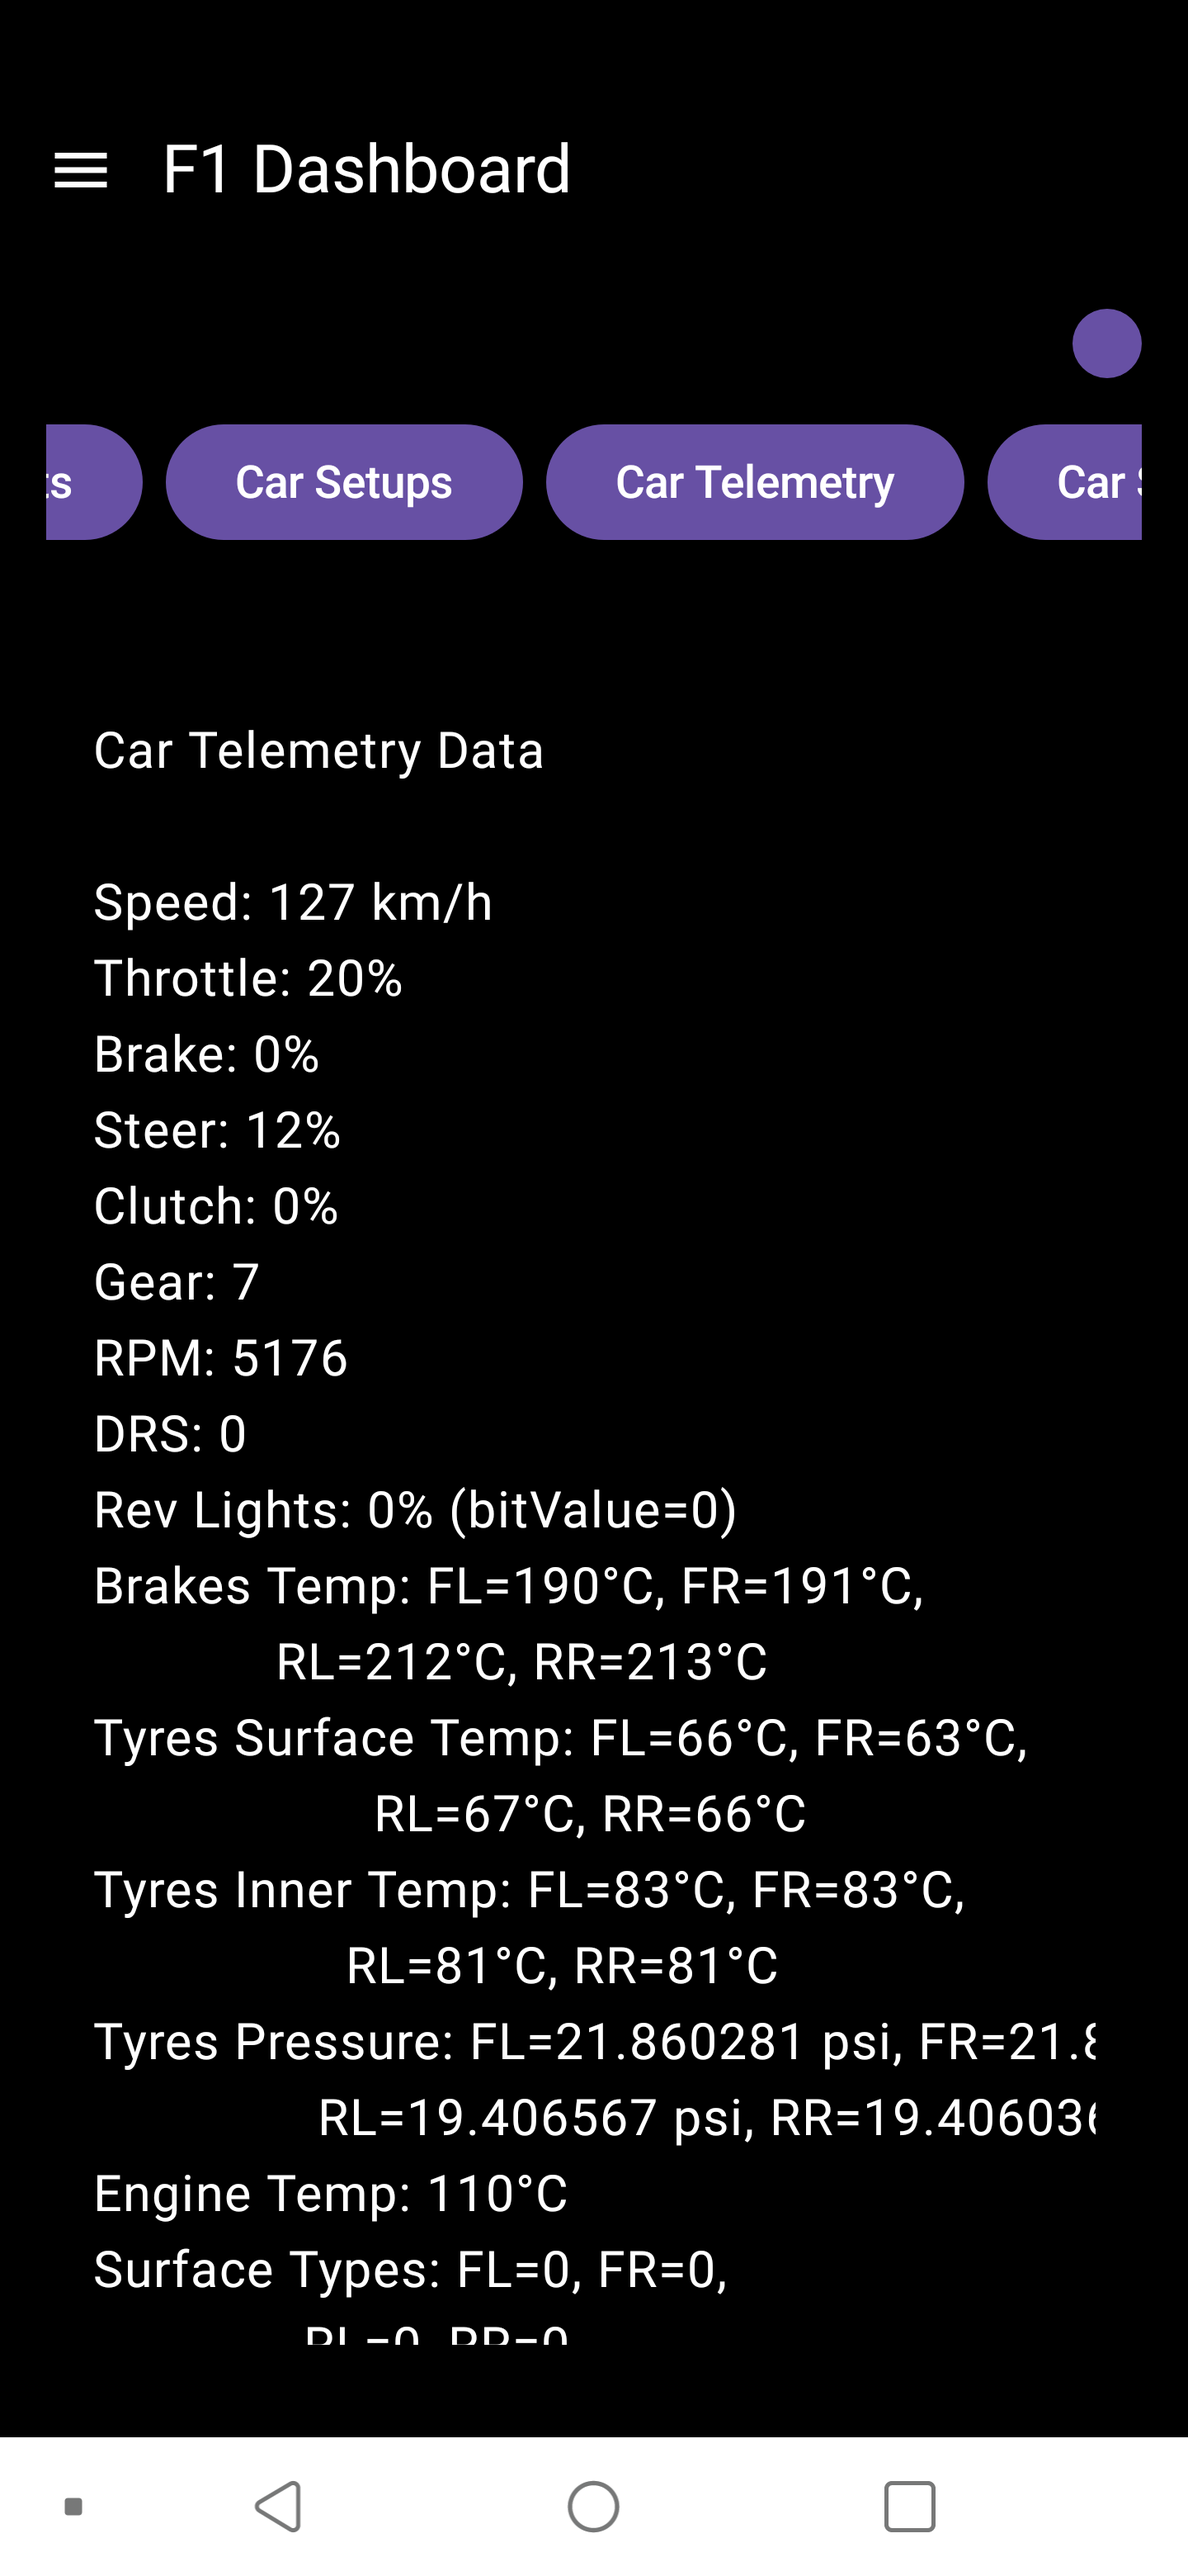
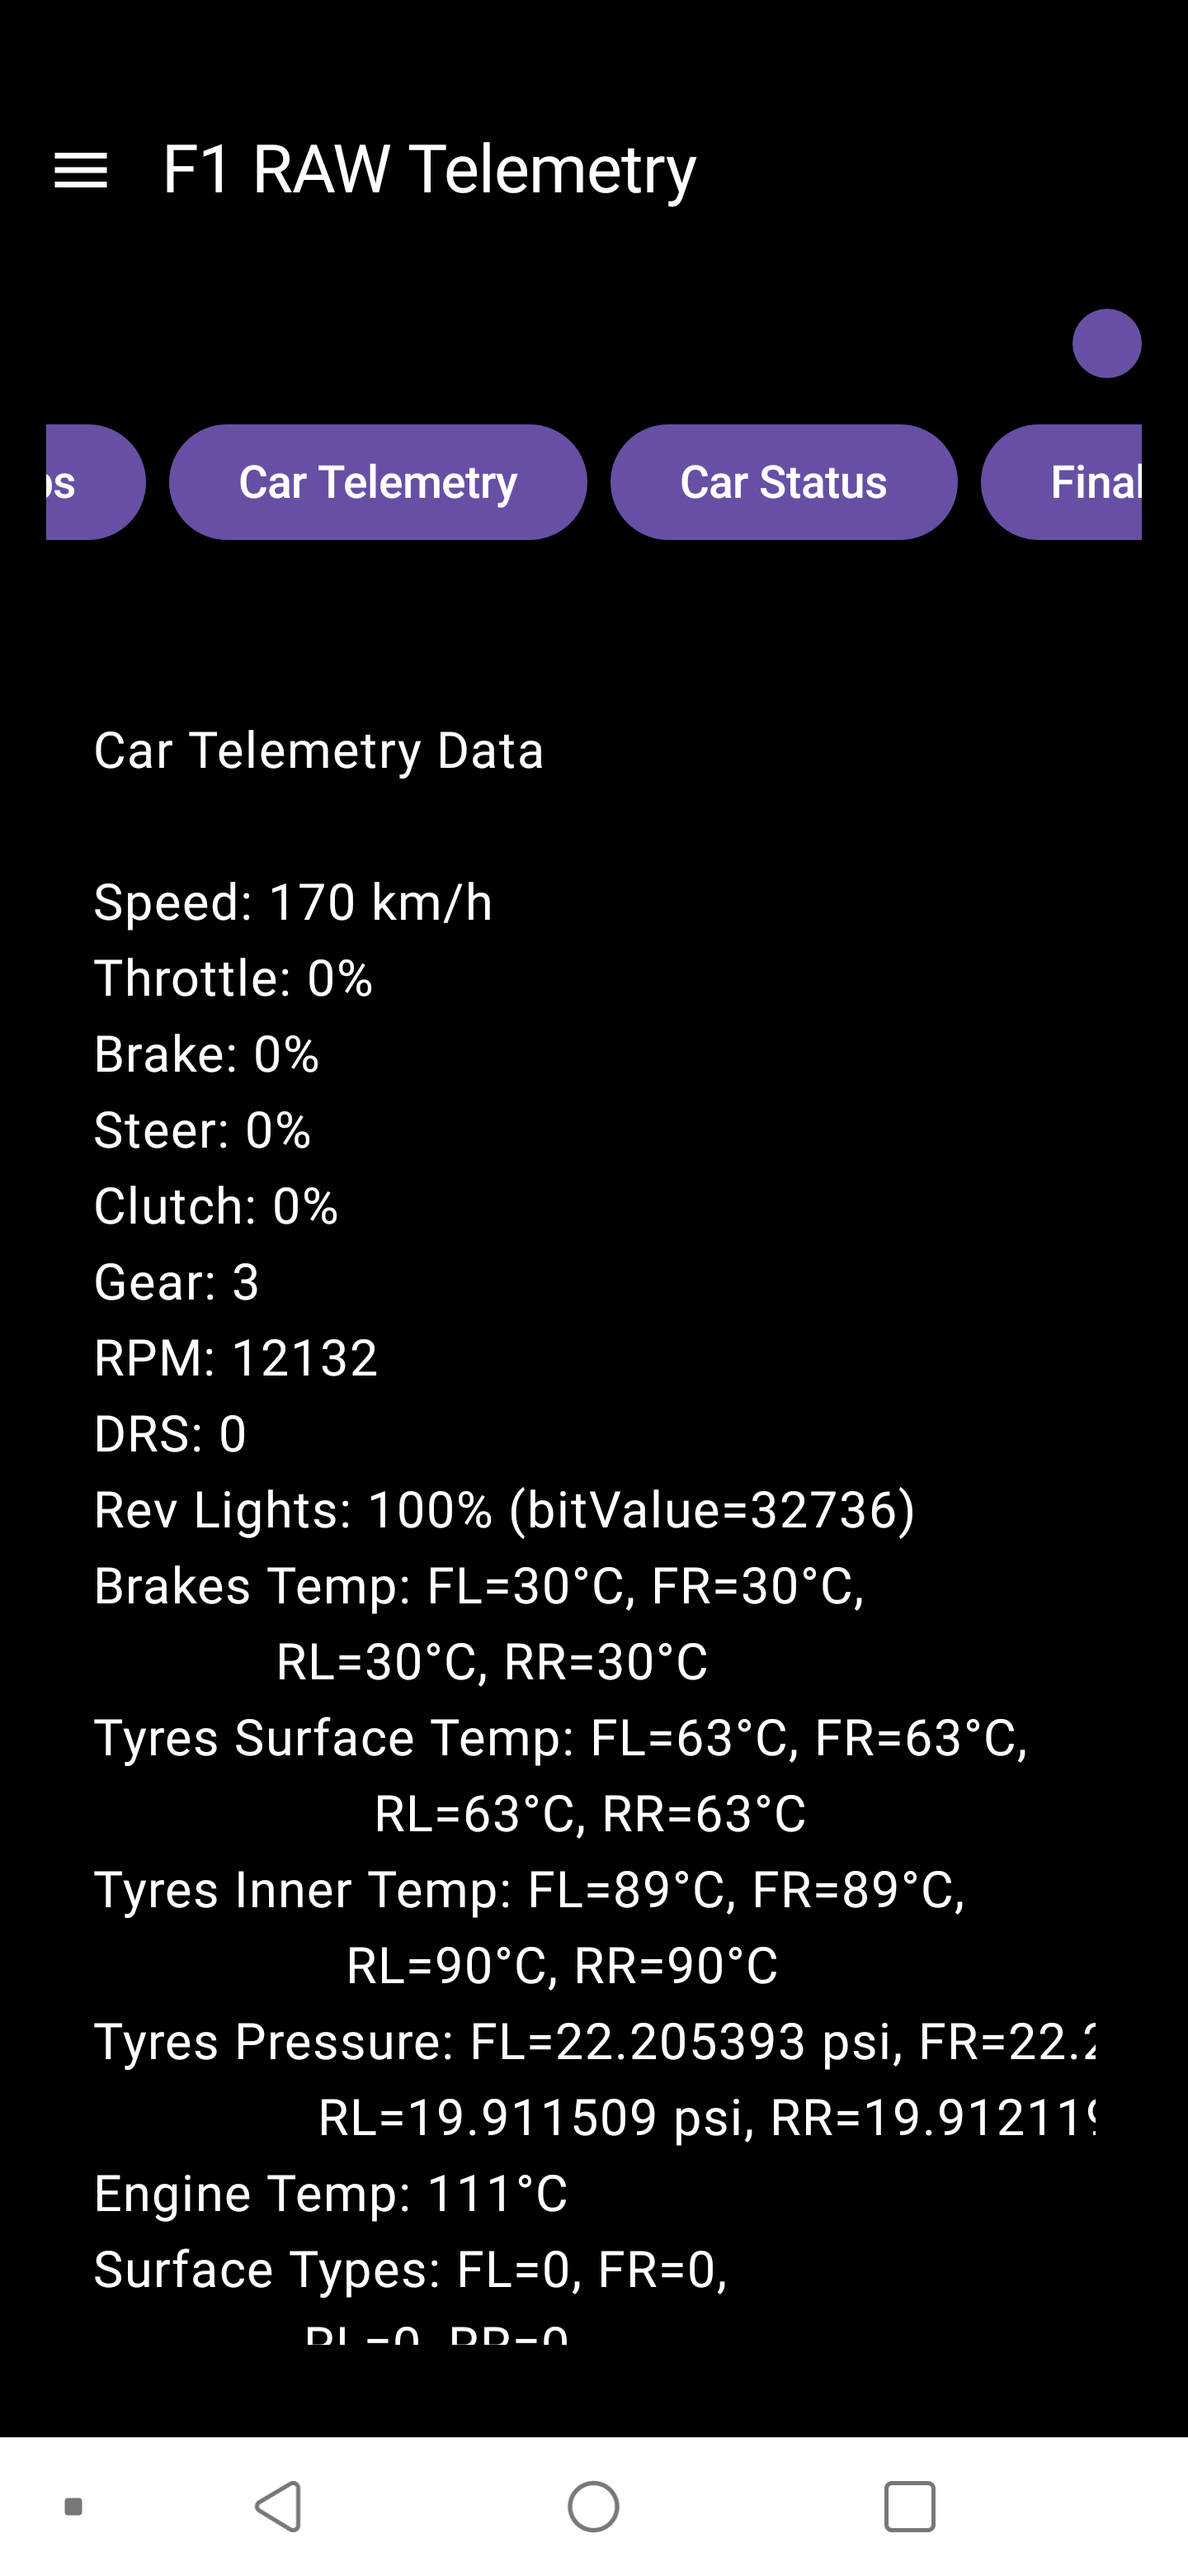
Readme screenshot

diff --git a/app/src/main/java/com/codaers/f1racehud/MainActivity.kt b/app/src/main/java/com/codaers/f1racehud/MainActivity.kt
@@ -61,7 +61,7 @@ fun MainApp(viewModel: TelemetryViewModel) {
     Scaffold(
         topBar = {
             TopAppBar(
-                title = { Text("F1 Dashboard", color = Color.White) },
+                title = { Text("F1 RAW Telemetry", color = Color.White) },
                 navigationIcon = {
                     Box {
                         IconButton(onClick = { menuExpanded = true }) {
